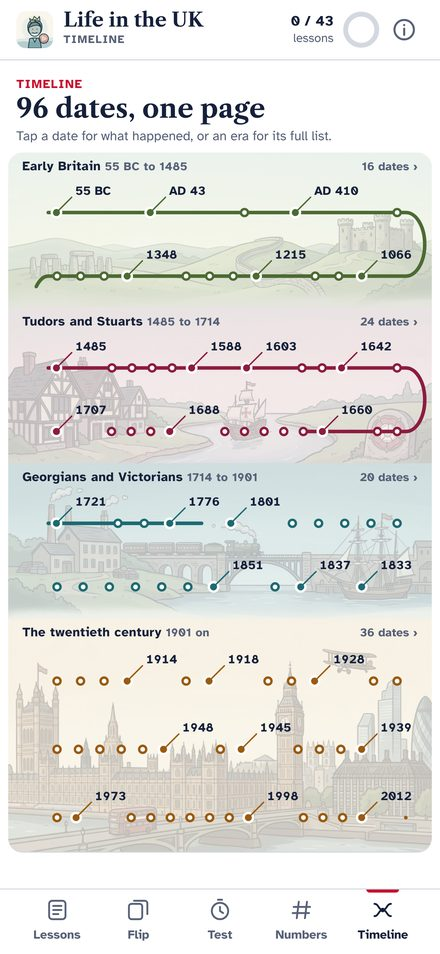
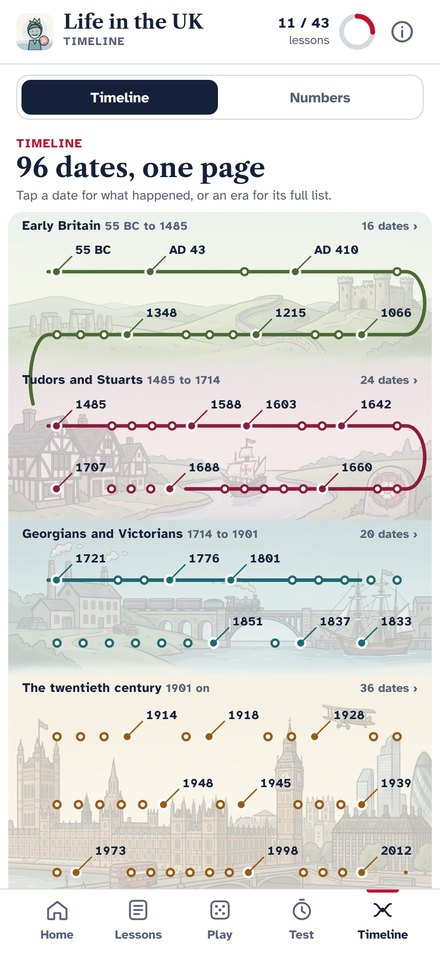
Life in the UK: Animated: match store wording (804 questions, no handbook wording), current screenshots
Claude-Session: https://claude.ai/code/session_01KKRxfVcySVgbEtrGu1DmTm

diff --git a/life-in-the-uk/index.html b/life-in-the-uk/index.html
@@ -4,10 +4,10 @@
 <meta charset="utf-8">
 <meta name="viewport" content="width=device-width,initial-scale=1,viewport-fit=cover">
 <title>Life in the UK: Animated | Appsiozo</title>
-<meta name="description" content="Life in the UK: Animated. The handbook acted out in short narrated lessons, with 813 practice questions. Unofficial study aid by Appsiozo.">
+<meta name="description" content="Life in the UK: Animated. Every topic for the Life in the UK test, acted out in short narrated lessons, with 804 practice questions. Unofficial study aid by Appsiozo.">
 <meta name="theme-color" content="#141A3A">
 <meta property="og:title" content="Life in the UK: Animated">
-<meta property="og:description" content="The Life in the UK handbook, acted out in short animated lessons you will actually remember.">
+<meta property="og:description" content="Every topic for the Life in the UK test, acted out in short animated lessons you will actually remember.">
 <meta property="og:image" content="https://appsiozo.com/life-in-the-uk/icon-512.png">
 <link rel="icon" href="../assets/mark.svg" type="image/svg+xml">
 <link rel="apple-touch-icon" href="apple-touch-icon.png">
@@ -21,28 +21,28 @@
 <div class="crumb"><a href="../index.html">Appsiozo</a> / Apps</div>
 <div class="apphead"><img src="icon-512.png" alt="Life in the UK: Animated app icon" width="140" height="140">
 <div><div class="kicker">iPhone and Android</div><h1>Life in the UK: Animated</h1>
-<p class="lead">The Life in the UK handbook, acted out in short animated lessons you will actually remember.</p>
+<p class="lead">Every topic for the Life in the UK test, acted out in short animated lessons you will actually remember.</p>
 <div class="get"><a class="btn primary" href="https://apps.apple.com/app/life-in-the-uk-animated/id6831185725">Get it on the App Store</a><a class="btn primary" href="https://play.google.com/store/apps/details?id=com.appsiozo.lituk">Get it on Google Play</a></div></div></div>
 <div class="shots" aria-label="Screenshots">
+<img src="shots/home.jpg" alt="Home screen with the next lesson, Daily 3 and the pub quiz" width="220" height="477" loading="lazy">
 <img src="shots/sport.jpg" alt="An animated lesson on British sport" width="220" height="477" loading="lazy">
 <img src="shots/farmers.jpg" alt="A narrated lesson with live captions about the first farmers" width="220" height="477" loading="lazy">
-<img src="shots/test.jpg" alt="Mock test screen with 24 questions in 45 minutes" width="220" height="477" loading="lazy">
-<img src="shots/timeline.jpg" alt="Timeline of 96 key dates" width="220" height="477" loading="lazy">
+<img src="shots/timeline.jpg?v=2" alt="Timeline of 96 key dates" width="220" height="477" loading="lazy">
 </div>
 </div></section>
 <section class="alt"><div class="wrap">
 <h2>What is inside</h2>
 <ul class="ticks">
-<li>43 animated lessons, about 135 minutes in all, across every chapter of the handbook</li>
+<li>43 animated lessons, about 134 minutes in all, covering every topic for the test</li>
 <li>Narration with captions that light up each word as it is spoken</li>
-<li>813 practice questions, random mock tests timed like the real test, and 33 fixed practice tests</li>
+<li>804 practice questions, random mock tests timed like the real test, and 33 fixed practice tests</li>
 <li>Flip cards for dates, people, numbers and common traps</li>
 <li>A timeline of 96 key dates on one page</li>
 <li>Works fully offline. No account, no adverts, no tracking</li>
 </ul>
 </div></section>
 <section><div class="wrap">
-<p class="note">Unofficial study aid. Not affiliated with or endorsed by the Home Office or the UK Government. The lessons follow the official handbook, Life in the United Kingdom: A Guide for New Residents. For official test information and booking, go to <a href="https://www.gov.uk/life-in-the-uk-test">gov.uk/life-in-the-uk-test</a>.</p>
+<p class="note">Unofficial study aid. Not affiliated with or endorsed by the Home Office or the UK Government. The lessons follow the official guide for the test, Life in the United Kingdom: A Guide for New Residents. For official test information and booking, go to <a href="https://www.gov.uk/life-in-the-uk-test">gov.uk/life-in-the-uk-test</a>.</p>
 <p style="margin-top:22px"><a href="support.html">Support</a> &nbsp;·&nbsp; <a href="privacy.html">Privacy policy</a></p>
 </div></section>
 </main>

diff --git a/life-in-the-uk/support.html b/life-in-the-uk/support.html
@@ -17,7 +17,7 @@
 <div class="crumb"><a href="../index.html">Appsiozo</a> / <a href="index.html">Life in the UK: Animated</a></div>
 <div class="kicker">Life in the UK: Animated</div><h1>Support</h1>
 <p class="lead">Need help or found a mistake in a lesson? Email <a href="mailto:support@appsiozo.com">support@appsiozo.com</a> with your phone model and the lesson or question number. We read every message.</p>
-<h2>What the app covers</h2><p>43 short animated lessons across the chapters of the official handbook, Life in the United Kingdom: A Guide for New Residents, plus 813 practice questions, timed mock tests, flip cards, a numbers page and a timeline of key dates.</p>
+<h2>What the app covers</h2><p>43 short animated lessons covering every topic for the Life in the UK test, plus 804 practice questions, timed mock tests, flip cards, a numbers page and a timeline of key dates. The lessons follow the official guide for the test, Life in the United Kingdom: A Guide for New Residents.</p>
 <p>For the official test details and booking, go to <a href="https://www.gov.uk/life-in-the-uk-test">gov.uk/life-in-the-uk-test</a>.</p>
 <h2>Common questions</h2>
 <p><strong>Do I need the internet?</strong> No. Everything is inside the app.</p>

diff --git a/index.html b/index.html
@@ -48,7 +48,7 @@
 <div class="app">
 <img src="life-in-the-uk/icon-512.png" alt="Life in the UK: Animated app icon" width="120" height="120">
 <div><h3>Life in the UK: Animated</h3>
-<p>The official handbook, acted out in 43 animated lessons with narration, plus 813 practice questions, timed mock tests, flip cards and a one-page timeline. Works fully offline. No account, no adverts, no tracking.</p>
+<p>Every topic for the Life in the UK test, acted out in 43 animated lessons with narration, plus 804 practice questions, timed mock tests, flip cards and a one-page timeline. Works fully offline. No account, no adverts, no tracking.</p>
 <div class="get"><a class="btn dark" href="https://apps.apple.com/app/life-in-the-uk-animated/id6831185725">Get it on the App Store</a><a class="btn dark" href="https://play.google.com/store/apps/details?id=com.appsiozo.lituk">Get it on Google Play</a></div>
 <p style="margin:16px 0 0"><a href="life-in-the-uk/">About the app</a> &nbsp;·&nbsp; <a href="life-in-the-uk/support.html">Support</a> &nbsp;·&nbsp; <a href="life-in-the-uk/privacy.html">Privacy policy</a></p>
 </div>
